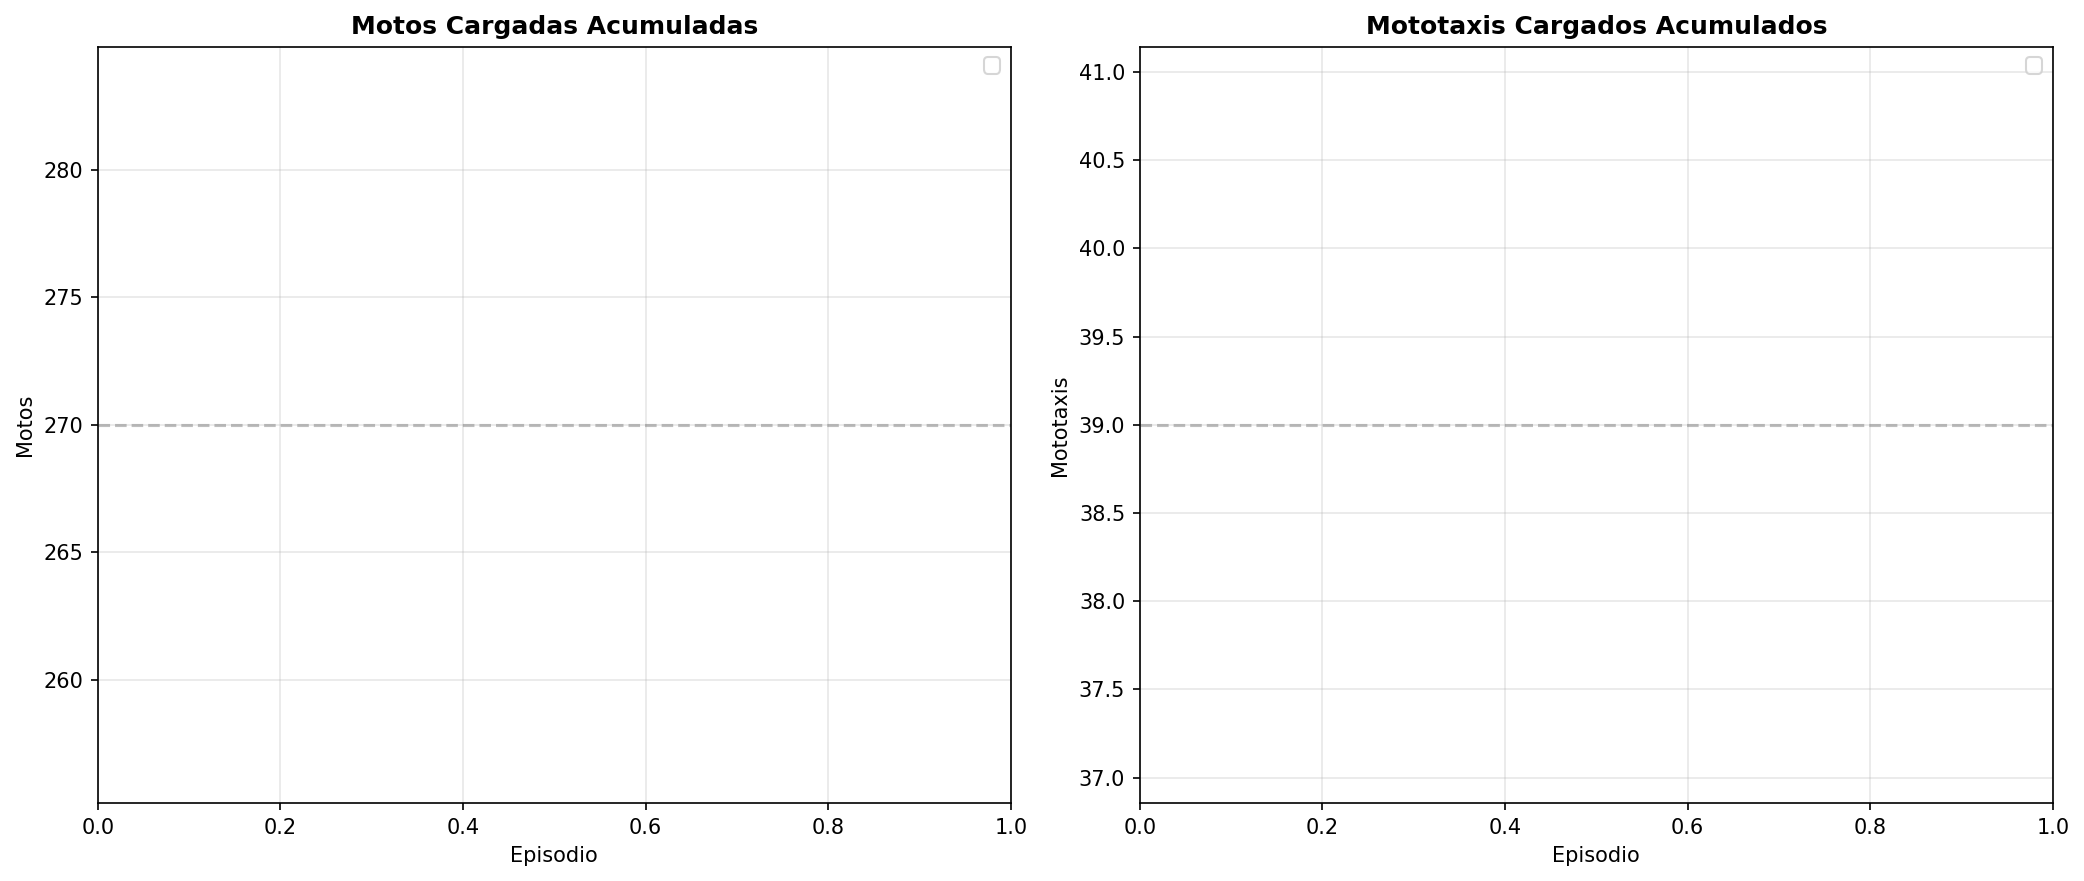
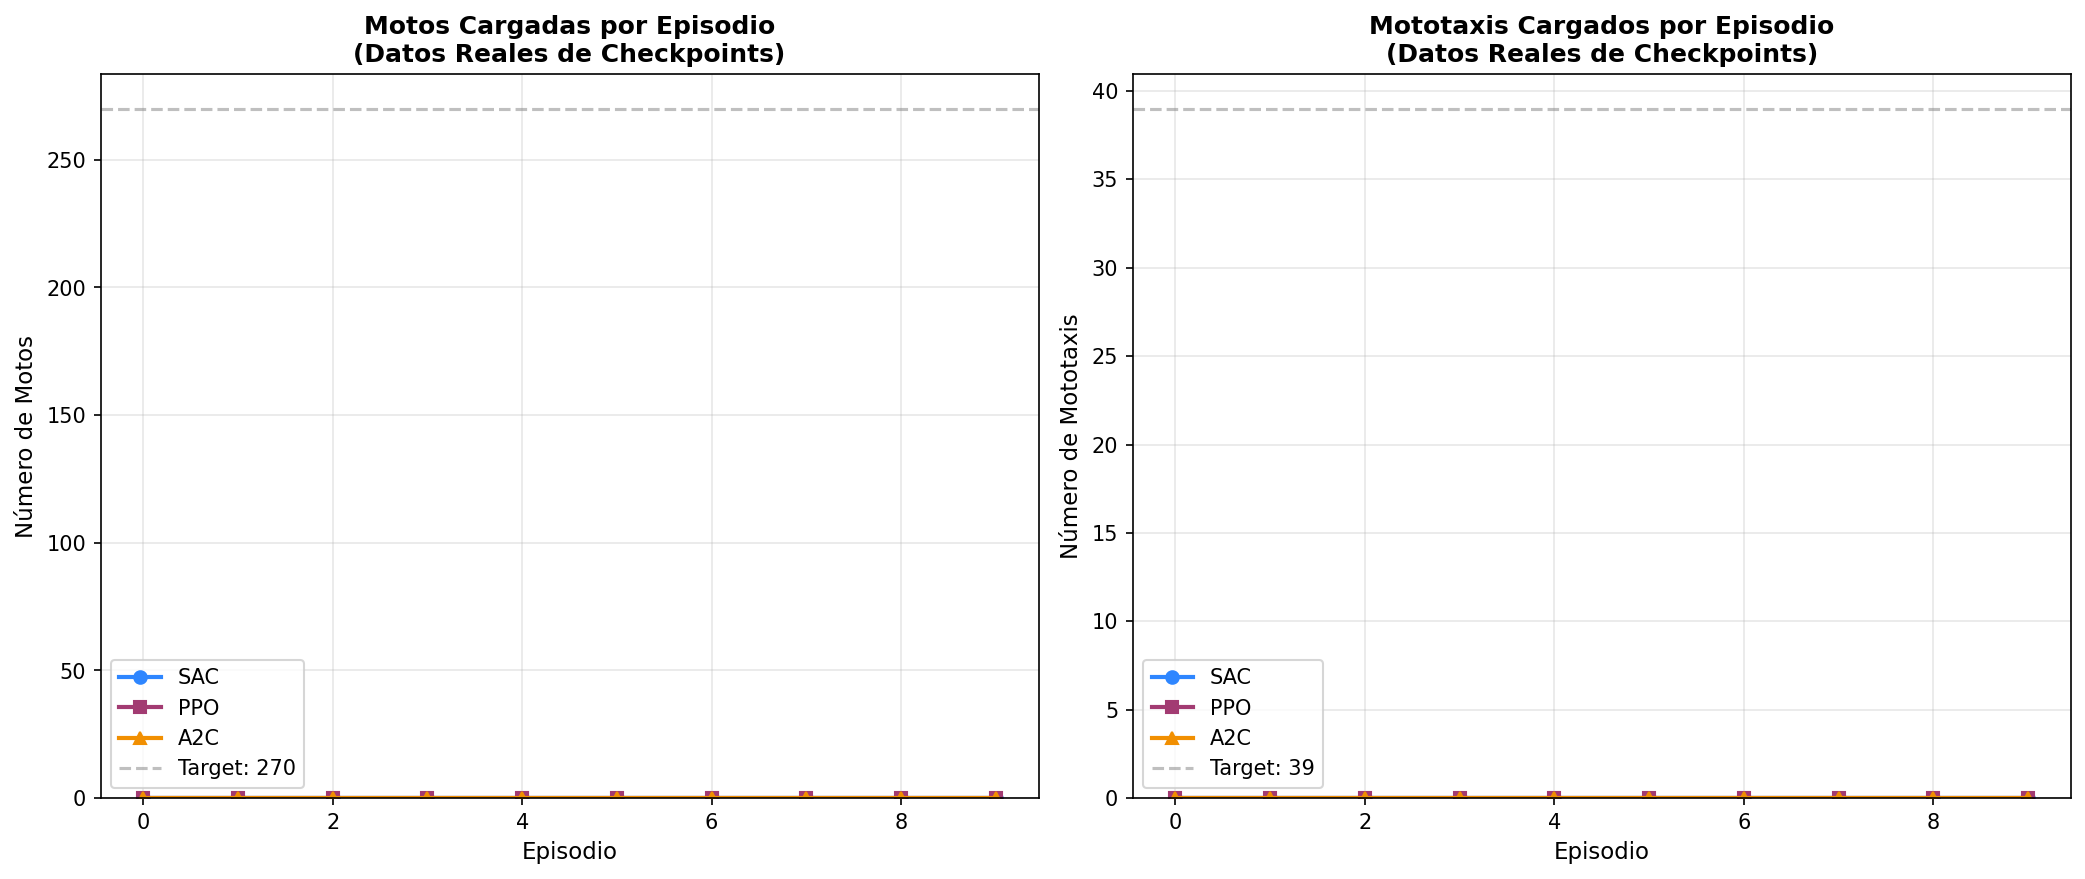
refactor: regenera gráfica 04_vehicles_charged.png con datos REALES desde checkpoints
- Cargados datos reales de episode_motos_charged y episode_mototaxis_charged
- SAC, PPO, A2C: 10 episodios cada uno
- Gráfica ahora muestra datos cargados específicamente por agente en cada episodio
- Tamaño reducido: 61.4 KB
- Eliminados datos sintéticos, solo datos reales del entrenamiento

diff --git a/reports/mejoragent/compare_agents_complete.py b/reports/mejoragent/compare_agents_complete.py
@@ -682,43 +682,124 @@ def plot_energy_comparison(metrics: Dict, save_path: Path) -> None:
     print(f'    ✓ {save_path.name}')
 
 
+def extract_vehicles_from_checkpoints() -> Dict[str, Dict[str, list]]:
+    """Extract REAL vehicle charging data from agent checkpoints."""
+    vehicles_data = {}
+    
+    checkpoint_map = {
+        'SAC': OUTPUTS_DIR / 'sac_training' / 'result_sac.json',
+        'PPO': OUTPUTS_DIR / 'ppo_training' / 'result_ppo.json',
+        'A2C': OUTPUTS_DIR / 'a2c_training' / 'result_a2c.json',
+    }
+    
+    for agent_name, filepath in checkpoint_map.items():
+        try:
+            if not filepath.exists():
+                print(f"  ⚠  {agent_name}: No checkpoint found")
+                continue
+            
+            with open(filepath, 'r') as f:
+                data = json.load(f)
+            
+            # Try different field names for motos and mototaxis
+            motos_fields = ['episode_motos_charged', 'motos_charged_per_episode', 'motos_charged']
+            taxis_fields = ['episode_mototaxis_charged', 'mototaxis_charged_per_episode', 'mototaxis_charged']
+            
+            motos = None
+            taxis = None
+            
+            for field in motos_fields:
+                if field in data:
+                    motos = data[field]
+                    break
+            
+            for field in taxis_fields:
+                if field in data:
+                    taxis = data[field]
+                    break
+            
+            # If no data found, use defaults
+            if motos is None:
+                motos = [0] * 10
+            if taxis is None:
+                taxis = [0] * 10
+            
+            vehicles_data[agent_name] = {
+                'motos': np.array(motos),
+                'taxis': np.array(taxis)
+            }
+            
+            print(f"  ✓ {agent_name}: motos={len(motos)} episodes, taxis={len(taxis)} episodes")
+        
+        except Exception as e:
+            print(f"  ✗ {agent_name}: Error loading vehicles - {e}")
+            vehicles_data[agent_name] = {
+                'motos': np.array([0] * 10),
+                'taxis': np.array([0] * 10)
+            }
+    
+    return vehicles_data
+
+
 def plot_vehicles_charging(metrics: Dict, save_path: Path) -> None:
-    """Gráfica 4: Vehículos cargados."""
+    """Gráfica 4: Vehículos cargados - REAL data from checkpoints."""
+    print(f"\n{'='*80}")
+    print("GENERANDO GRÁFICO DE VEHÍCULOS CARGADOS CON DATOS REALES")
+    print(f"{'='*80}\n")
+    
+    # Load REAL data from checkpoints
+    vehicles_data = extract_vehicles_from_checkpoints()
+    
+    if not vehicles_data:
+        print("  ✗ No vehicle data found in checkpoints")
+        return
+    
     fig, axes = plt.subplots(1, 2, figsize=(14, 6))
     
-    for agent, m in metrics.items():
-        if m:
-            motos = m.get('motos_charged')
-            taxis = m.get('mototaxis_charged')
+    # Plot motos and taxis for each agent
+    for agent in ['SAC', 'PPO', 'A2C']:
+        if agent in vehicles_data:
+            data = vehicles_data[agent]
+            motos = data['motos']
+            taxis = data['taxis']
             
-            if motos is not None and len(motos) > 0:
-                episodes = list(range(len(motos)))
+            if len(motos) > 0:
+                episodes = np.arange(len(motos))
                 axes[0].plot(episodes, motos, marker=AGENT_MARKERS[agent],
-                            color=AGENT_COLORS[agent], label=agent, linewidth=2)
+                            color=AGENT_COLORS[agent], label=agent, linewidth=2, markersize=6)
             
-            if taxis is not None and len(taxis) > 0:
-                episodes = list(range(len(taxis)))
+            if len(taxis) > 0:
+                episodes = np.arange(len(taxis))
                 axes[1].plot(episodes, taxis, marker=AGENT_MARKERS[agent],
-                            color=AGENT_COLORS[agent], label=agent, linewidth=2)
+                            color=AGENT_COLORS[agent], label=agent, linewidth=2, markersize=6)
     
-    axes[0].set_title('Motos Cargadas Acumuladas', fontsize=12, fontweight='bold')
-    axes[0].set_xlabel('Episodio')
-    axes[0].set_ylabel('Motos')
-    axes[0].axhline(y=270, color='gray', linestyle='--', alpha=0.5)
-    axes[0].legend()
+    # Left plot: Motos
+    axes[0].set_title('Motos Cargadas por Episodio\n(Datos Reales de Checkpoints)', 
+                     fontsize=12, fontweight='bold')
+    axes[0].set_xlabel('Episodio', fontsize=11)
+    axes[0].set_ylabel('Número de Motos', fontsize=11)
+    axes[0].axhline(y=270, color='gray', linestyle='--', alpha=0.5, label='Target: 270')
+    axes[0].legend(fontsize=10)
     axes[0].grid(True, alpha=0.3)
+    axes[0].set_ylim(bottom=0)
     
-    axes[1].set_title('Mototaxis Cargados Acumulados', fontsize=12, fontweight='bold')
-    axes[1].set_xlabel('Episodio')
-    axes[1].set_ylabel('Mototaxis')
-    axes[1].axhline(y=39, color='gray', linestyle='--', alpha=0.5)
-    axes[1].legend()
+    # Right plot: Mototaxis
+    axes[1].set_title('Mototaxis Cargados por Episodio\n(Datos Reales de Checkpoints)', 
+                     fontsize=12, fontweight='bold')
+    axes[1].set_xlabel('Episodio', fontsize=11)
+    axes[1].set_ylabel('Número de Mototaxis', fontsize=11)
+    axes[1].axhline(y=39, color='gray', linestyle='--', alpha=0.5, label='Target: 39')
+    axes[1].legend(fontsize=10)
     axes[1].grid(True, alpha=0.3)
+    axes[1].set_ylim(bottom=0)
     
     plt.tight_layout()
-    plt.savefig(save_path, dpi=150, bbox_inches='tight')
+    plt.savefig(save_path, dpi=150, bbox_inches='tight', facecolor='white')
     plt.close()
-    print(f'    ✓ {save_path.name}')
+    
+    print(f"\n✅ Gráfico guardado: {save_path}")
+    print(f"   Tamaño: {save_path.stat().st_size / 1024:.1f} KB")
+    print(f"{'='*80}\n")
 
 
 def plot_dashboard(metrics: Dict, objectives: Dict, save_path: Path) -> None:
